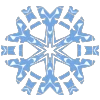
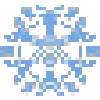
frost orb adds 2 strongblock

Changed region(s): [[0.0, 0.03, 1.0, 0.96]]

diff --git a/game/actions/activateOrb.ts b/game/actions/activateOrb.ts
@@ -1,5 +1,11 @@
 import { isEqual } from 'lodash'
-import type { CharacterMeta, Orb, BattleCursor, GameActions } from 'shared'
+import type {
+    CharacterMeta,
+    Orb,
+    BattleCursor,
+    GameActions,
+    OrbType,
+} from 'shared'
 
 import {
     maybeTransitionBattleState,
@@ -10,6 +16,55 @@ import {
     emitMove,
 } from '@/gameState'
 import { getBattleSceneIn } from '@/util'
+import { applyEffect } from '@/gameState/battle/cards/commands/effect'
+
+const orbActivators: Record<
+    OrbType,
+    (character: CharacterMeta, scene: BattleCursor) => void
+> = {
+    protection(character: CharacterMeta, scene: BattleCursor) {
+        const block = Math.ceil(character.wisdom * 0.5)
+        const multiplier = calcPostEffectStats(character).blockMultiplier
+        scene.apply(
+            ['allCharacters', character.uid, 'block'],
+            b => b + block * multiplier
+        )
+
+        emitMove({
+            moveName: 'Protection!',
+            targetType: 'self',
+            characterUid: character.uid,
+            targetUids: [character.uid],
+            scene,
+        })
+    },
+    lightning(character: CharacterMeta, scene: BattleCursor) {
+        const damage = Math.ceil(character.wisdom * 0.5)
+        const targetUid = getRandomLivingNpcUid(scene)
+        const multiplier = calcPostEffectStats(character).damageTakeMultiplier
+        applyDamage({ damage, targetUid, scene, multiplier })
+
+        emitMove({
+            moveName: 'Lightning!',
+            targetType: 'enemies',
+            characterUid: character.uid,
+            targetUids: [targetUid],
+            scene,
+        })
+    },
+    frost(character: CharacterMeta, scene: BattleCursor) {
+        applyEffect(scene, [character.uid], 'strongblock', 2)
+        updateHand(scene)
+
+        emitMove({
+            moveName: '+2 strongblock!',
+            targetType: 'self',
+            characterUid: character.uid,
+            targetUids: [character.uid],
+            scene,
+        })
+    },
+}
 
 export const activateOrb: GameActions['activateOrb'] = ({
     game,
@@ -36,11 +91,7 @@ function validate(character: CharacterMeta, orb: Orb) {
 }
 
 function activate(orb: Orb, character: CharacterMeta, scene: BattleCursor) {
-    if (orb.type === 'lightning') {
-        activateLightning(character, scene)
-    } else if (orb.type === 'protection') {
-        activateProtection(character, scene)
-    }
+    orbActivators[orb.type](character, scene)
 
     decrementCounter(character, orb, scene)
 }
@@ -70,37 +121,5 @@ function decrementCounter(
             ...updatedOrb,
             ...orbs.slice(orbIndex + 1),
         ]
-    })
-}
-
-function activateProtection(character: CharacterMeta, scene: BattleCursor) {
-    const block = Math.ceil(character.wisdom * 0.5)
-    const multiplier = calcPostEffectStats(character).blockMultiplier
-    scene.apply(
-        ['allCharacters', character.uid, 'block'],
-        b => b + block * multiplier
-    )
-
-    emitMove({
-        moveName: 'Protection!',
-        targetType: 'self',
-        characterUid: character.uid,
-        targetUids: [character.uid],
-        scene,
-    })
-}
-
-function activateLightning(character: CharacterMeta, scene: BattleCursor) {
-    const damage = Math.ceil(character.wisdom * 0.5)
-    const targetUid = getRandomLivingNpcUid(scene)
-    const multiplier = calcPostEffectStats(character).damageTakeMultiplier
-    applyDamage({ damage, targetUid, scene, multiplier })
-
-    emitMove({
-        moveName: 'Lightning!',
-        targetType: 'enemies',
-        characterUid: character.uid,
-        targetUids: [targetUid],
-        scene,
     })
 }

diff --git a/game/gameState/battle/cards/commands/effect.ts b/game/gameState/battle/cards/commands/effect.ts
@@ -1,8 +1,14 @@
 import { startCase } from 'lodash'
-import type { BasicTargetType } from 'shared'
+import type {
+    BasicTargetType,
+    BattleCursor,
+    CharacterUid,
+    Command,
+    EffectId,
+} from 'shared'
 import { setAt } from 'shared/code'
 
-import type { Executors, Explainers } from './util'
+import type { Executors, Explainers, VAngu } from './util'
 import { evalAll } from './util'
 
 export const explain: Explainers['effect'] = dslArgs => {
@@ -17,6 +23,38 @@ export const execute: Executors['effect'] = ({
     command,
 }) => {
     const [id, increase] = evalAll(dslArgs)
+    const targetUids = getTargetUids(dslArgs, givenUids, command, scene)
+
+    // logger.info(`adding effect ${id}`)
+
+    applyEffect(scene, targetUids, id, increase)
+}
+
+export function applyEffect(
+    scene: BattleCursor,
+    targetUids: CharacterUid[],
+    id: EffectId,
+    increase: number
+) {
+    const ac = scene.select('allCharacters')
+    for (const uid of targetUids) {
+        ac.select(uid, 'effects').apply(effects => {
+            const i = effects.findIndex(e => e.id === id)
+            if (i === -1) return [...effects, { id, counter: increase }]
+            return setAt(effects, i, {
+                ...effects[i],
+                counter: effects[i].counter + increase,
+            })
+        })
+    }
+}
+
+function getTargetUids(
+    dslArgs: VAngu[],
+    givenUids: CharacterUid[],
+    command: Command,
+    scene: BattleCursor
+) {
     let targetType = evalAll(dslArgs)[2]
     let targetUids
 
@@ -39,18 +77,5 @@ export const execute: Executors['effect'] = ({
     } else {
         targetUids = givenUids
     }
-
-    logger.info(`adding effect ${id}`)
-
-    const ac = scene.select('allCharacters')
-    for (const uid of targetUids) {
-        ac.select(uid, 'effects').apply(effects => {
-            const i = effects.findIndex(e => e.id === id)
-            if (i === -1) return [...effects, { id, counter: increase }]
-            return setAt(effects, i, {
-                ...effects[i],
-                counter: effects[i].counter + increase,
-            })
-        })
-    }
+    return targetUids
 }

diff --git a/client/scenes/battle/character/HealthBar.ts b/client/scenes/battle/character/HealthBar.ts
@@ -115,13 +115,14 @@ function EffectIndicators(characterCursor: ROCursor<CharacterMeta>) {
         //@ts-expect-error
         data,
         //@ts-expect-error
-        effect => SingleEffect(effect),
+        effect => InteractiveEffectCounter(effect),
         idx => ({ y: 50 * SCALE_UNIVERSAL, x: idx * 50 * SCALE_UNIVERSAL })
     )
 }
 
-function SingleEffect(effect: Effect & { id: VisibleEffectId }): PixiContainer {
-    console.log('rendering effect', { effect })
+function InteractiveEffectCounter(
+    effect: Effect & { id: VisibleEffectId }
+): PixiContainer {
     return Container(
         {
             name: `Effect-${effect.id}`,

diff --git a/game/gameState/battle/cards/commands/addBlock.ts b/game/gameState/battle/cards/commands/addBlock.ts
@@ -14,8 +14,7 @@ export const execute: Executors['addBlock'] = ({
 }) => {
     const [block] = evalAll(dslArgs)
 
-    scene.apply(
-        ['allCharacters', targetUids[0], 'block'],
-        b => b + block * calculatedStats.blockMultiplier
+    scene.apply(['allCharacters', targetUids[0], 'block'], b =>
+        Math.ceil(b + block * calculatedStats.blockMultiplier)
     )
 }

diff --git a/game/gameState/battle/cards/commands/util/index.ts b/game/gameState/battle/cards/commands/util/index.ts
@@ -1,5 +1,6 @@
 /* eslint-disable @typescript-eslint/no-explicit-any */
 import type { Value as VAngu } from 'angu'
+
 import type {
     Command,
     CharacterUid,
@@ -11,6 +12,8 @@ import type {
     RequiredActionName,
     BasicTargetType,
 } from 'shared'
+
+export type { Value as VAngu } from 'angu'
 
 type ExecuteArgs<T = VAngu[]> = {
     dslArgs: T

diff --git a/shared/tree/battle/Orb.ts b/shared/tree/battle/Orb.ts
@@ -1,4 +1,4 @@
-export type OrbType = 'lightning' | 'protection'
+export type OrbType = 'lightning' | 'protection' | 'frost'
 export interface Orb {
     type: OrbType
     remainingCount: number

diff --git a/client/assets/assetMaps.ts b/client/assets/assetMaps.ts
@@ -108,6 +108,7 @@ export const effectAssets: {
     effectDebilitated: 'effects/debilitated.webp',
     effectFatigue: 'effects/fatigue.webp',
     // effectPiercing,
+    effectStrongblock: 'intents/npc/Shield intent.webp',
     effectMagicalStorm: 'effects/magicalStorm.webp',
     effectPoison: 'effects/poison_skull.webp',
     effectStunned: 'effects/stunned.webp',

diff --git a/client/assets/invisibleEffects.ts b/client/assets/invisibleEffects.ts
@@ -1,7 +1,6 @@
 import type { EffectId } from 'shared'
 
 export const invisibleEffects_ = [
-    'strongblock',
     'smallDamageIncrease',
     'doubleDamage',
     'passiveBlock',